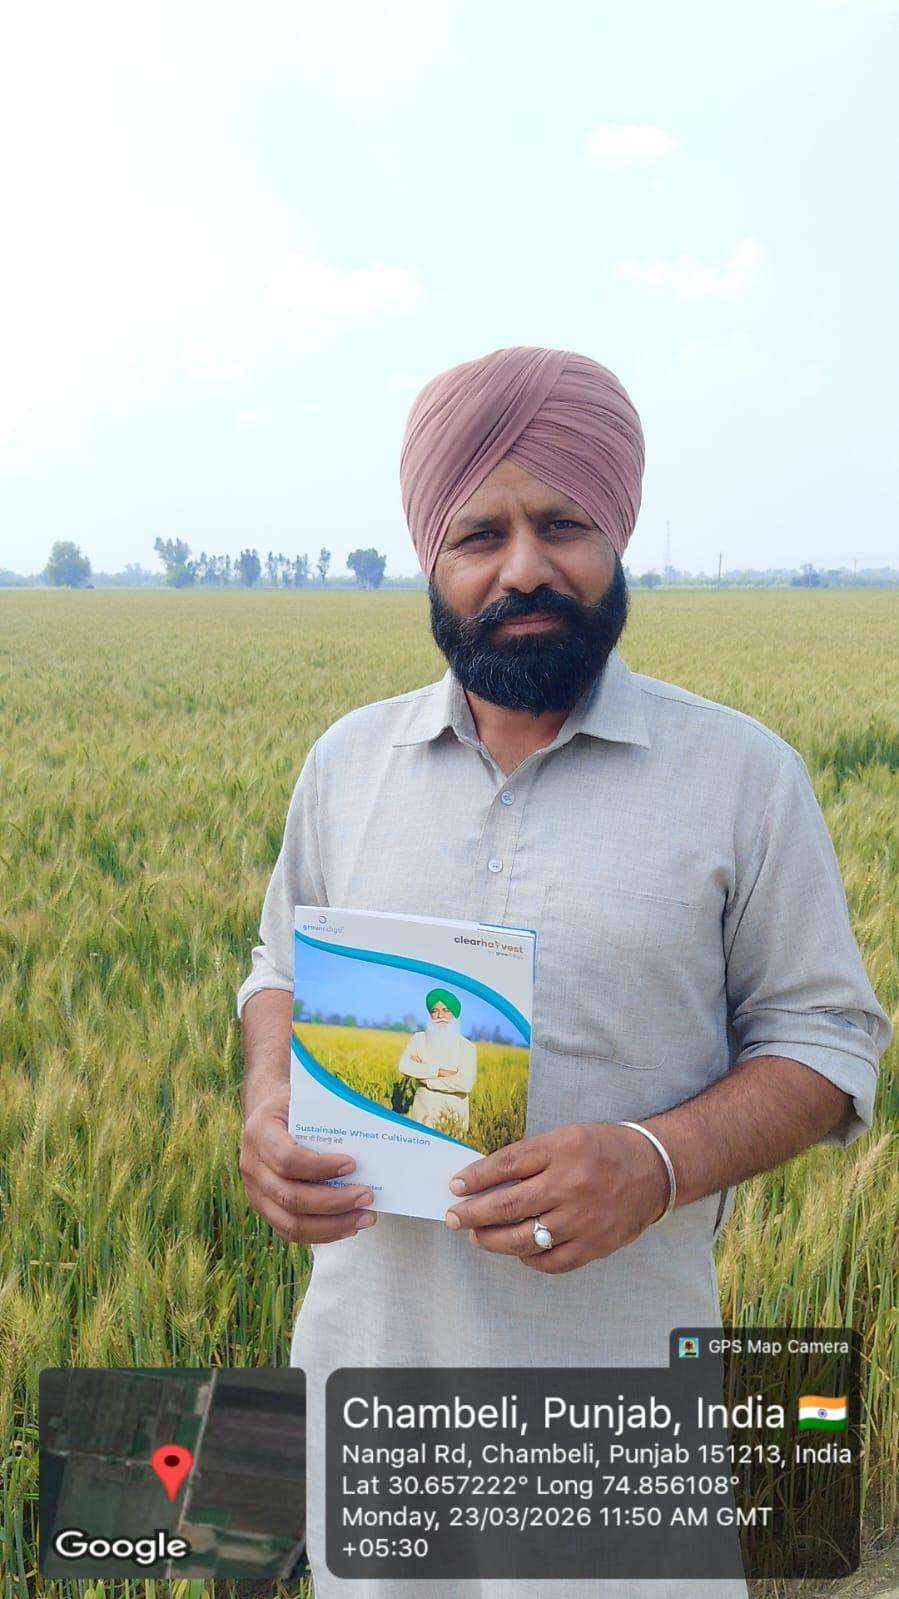
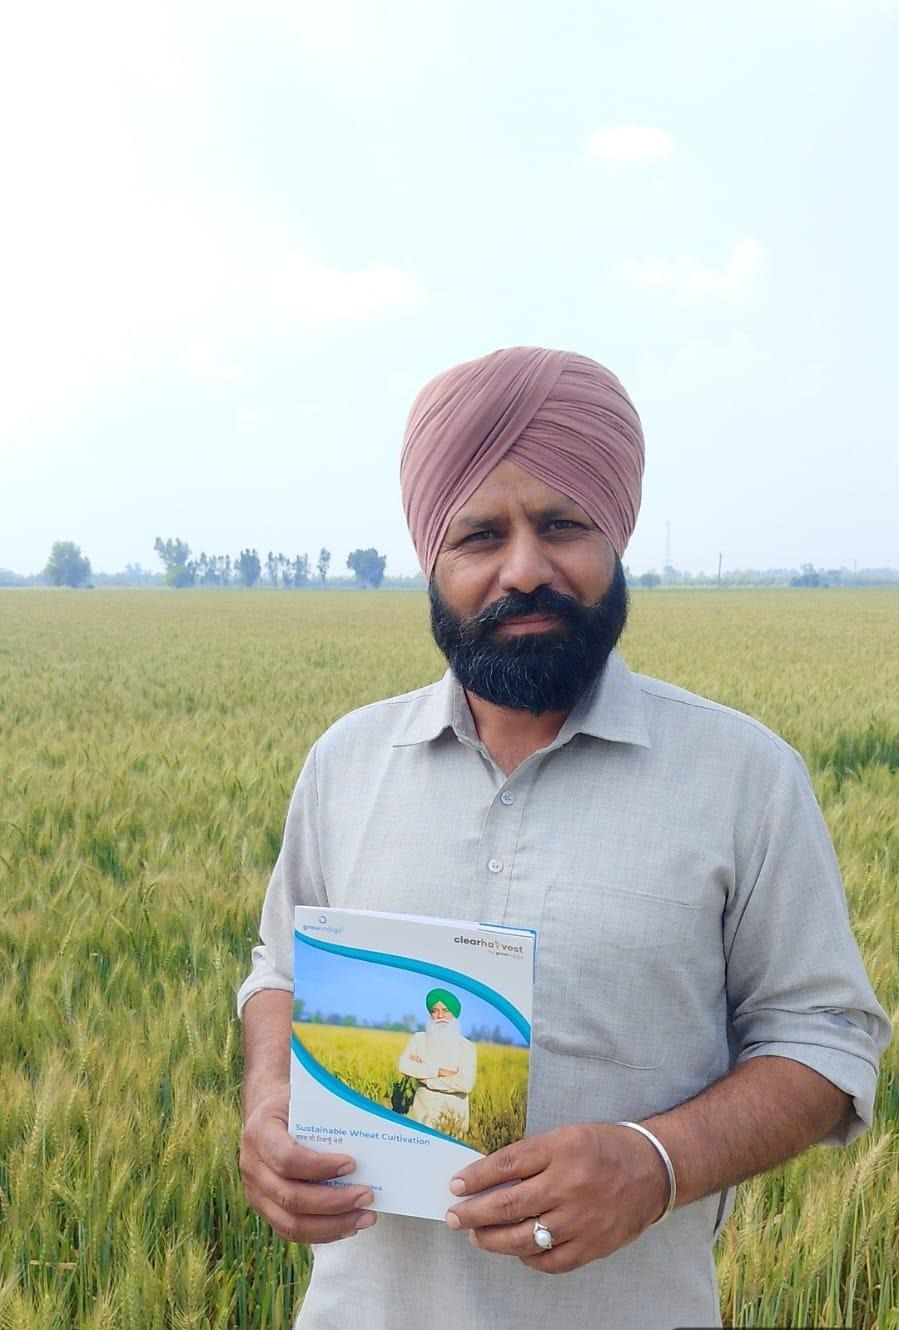
Fix hero photo crop: remove GPS watermark, reframe subject
- Cropped the baked-in "GPS Map Camera" location-stamp strip off the
  bottom of the hero cover photo, which was previously always fully
  visible on tall/narrow (mobile) viewports because that crop is
  height-bound rather than width-bound.
- Repositioned the vertical crop (objectPosition) so the farmer's
  turban and face stay in frame on wide viewports instead of being cut
  at the chest.
- Added a left-to-right darkening gradient behind the hero copy so the
  headline stays legible against the photo regardless of exactly where
  the subject lands in the crop.

diff --git a/WheatHarvest.jsx b/WheatHarvest.jsx
@@ -569,9 +569,10 @@ function Hero() {
         <img
           src={heroCoverPhoto}
           alt=""
-          style={{ width: "100%", height: "100%", objectFit: "cover", objectPosition: "50% 18%" }}
+          style={{ width: "100%", height: "100%", objectFit: "cover", objectPosition: "50% 35%" }}
         />
         <div className="absolute inset-0" style={{ background: "linear-gradient(180deg, rgba(32,24,11,.5) 0%, rgba(32,24,11,.58) 45%, rgba(32,24,11,.94) 100%)" }} />
+        <div className="absolute inset-0" style={{ background: "linear-gradient(90deg, rgba(32,24,11,.85) 0%, rgba(32,24,11,.35) 42%, rgba(32,24,11,0) 68%)" }} />
       </div>
 
       <div className="hero-content relative px-5 md:px-10 pb-16 md:pb-24 pt-32 mx-auto w-full wh-scrub" style={{ maxWidth: 1180 }}>
